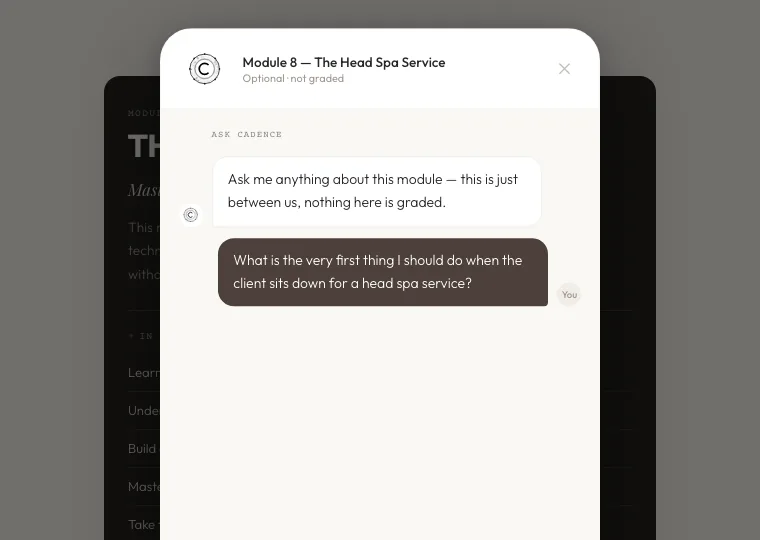
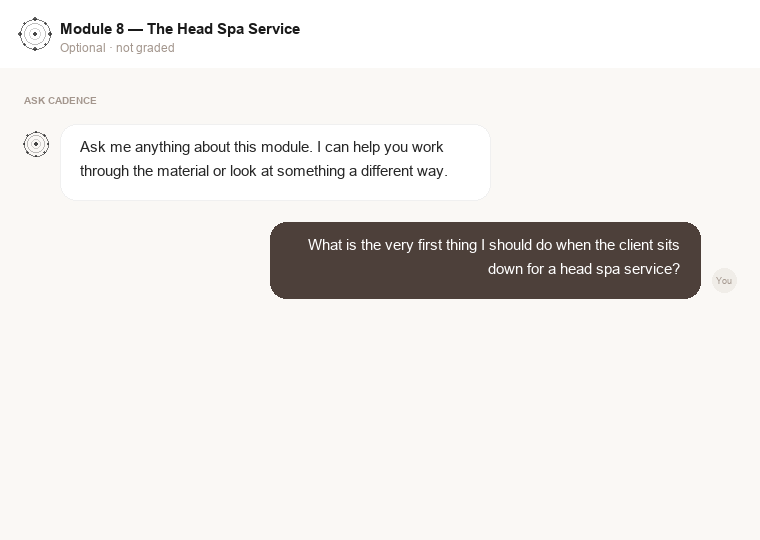
Finish Cadence transition and supporting-page polish
CADENCE CHECK ANIMATION — root cause and fix

Owner QA found the large mark's turn+glow invisible: clicking "Open
Cadence Check" DID activate it (data-cadence-turns incremented, .cc-
entering added, bloom class toggled) but the checkpoint shell still
opened in the exact same synchronous click-event tick. openCheckpoint()
is a synchronous full-screen position:fixed takeover (hidePageChrome()
+ .cshell.open, no yield to the browser) -- so the very first frame
anyone could ever see already showed the shell covering the card. The
animation happened; it just never got painted before being buried.

Fixed by making Cadence's own entry a real, awaited sequence instead of
two independently-firing effects:
- assets/js/cadence-identity.js: activate() now returns a Promise that
  resolves only once the turn+glow has actually played and settled
  (TURN_MS + SETTLE_MS = 2950ms, mirroring aimt-cadence-intro.js's own
  runOrbitalActivation() three-timer structure and its 350ms
  ORBITAL_SETTLE_MS beat -- verified against that frozen file directly,
  not assumed). Reduced-motion still resolves after a short deliberate
  pause (350ms) with no rotation, so the sequence still reads as
  intentional rather than instant.
- assets/js/cadence-shell.js: wireCheckpoint()'s open() closure now
  awaits that Promise, then fades the card (.cc-leaving), then calls
  openCheckpoint() -- only on a later tick, with real paint frames in
  between. A `transitioning` guard blocks re-entry mid-sequence.
[…]

diff --git a/headspa-mastery.html b/headspa-mastery.html
@@ -672,7 +672,14 @@ hr.divider { border: none; border-top: 0.5px solid var(--border); margin: 2.85re
   overflow: hidden;
   box-shadow: 0 20px 44px -18px rgba(0,0,0,0.5), 0 3px 10px rgba(0,0,0,0.25);
   --cc-top-gap: 0.9rem;
+  transition: opacity 0.36s ease;
 }
+/* Final step of the entry sequence (assets/js/cadence-shell.js's
+   wireCheckpoint()): once the large mark's turn+glow has visibly
+   played out, the whole card (mark included) fades away before the
+   checkpoint shell opens underneath it -- CARD_LEAVE_MS there matches
+   this transition's duration. */
+.checkpoint.cc-card.cc-leaving { opacity: 0; pointer-events: none; }
 .checkpoint.cc-card .cc-rail {
   display: flex; align-items: center; justify-content: flex-start;
   padding: 1.6rem 1.65rem 0.15rem; position: relative; z-index: 1;
@@ -695,16 +702,20 @@ hr.divider { border: none; border-top: 0.5px solid var(--border); margin: 2.85re
 }
 
 /* Checkpoint content settles back and softens while Cadence activates --
-   .cc-entering is added/removed by the click-handler script alongside
-   CadenceIdentity.activate(), for the same 2600ms turn duration, so this
-   can never fire out of sync with the mark. */
+   .cc-entering is added/removed by wireCheckpoint()'s open() sequence
+   (assets/js/cadence-shell.js), which awaits CadenceIdentity.activate()
+   itself rather than a duplicated timer, so this can never fire out of
+   sync with the mark. Not clickable while dimmed -- belt-and-suspenders
+   alongside open()'s own `transitioning` guard against a second click
+   restarting the sequence mid-turn. */
 .checkpoint.cc-card > *:not(.cc-rail):not(.cc-divider) {
   transition: opacity 0.5s ease, transform 0.5s ease;
 }
 .checkpoint.cc-card.cc-entering > *:not(.cc-rail):not(.cc-divider) {
-  opacity: 0.55; transform: translateY(5px);
+  opacity: 0.55; transform: translateY(5px); pointer-events: none;
 }
 @media (prefers-reduced-motion: reduce) {
+  .checkpoint.cc-card { transition: none; }
   .checkpoint.cc-card > *:not(.cc-rail):not(.cc-divider) { transition: none; }
 }
 
@@ -9345,24 +9356,15 @@ textarea#gpInput::placeholder { color: var(--muted2); }
 <script src="assets/js/module12-certification.js"></script>
 <script src="assets/js/cadence-identity.js"></script>
 <script src="assets/js/cadence-shell.js" defer></script>
-<!-- Cadence Check entry animation: wires the intro-style turn+glow to the
-     moment a student actually opens a checkpoint, purely as a visual
-     side effect on the card's own .cadence-id mark -- does not touch
-     submitCP/submitCheckpoint or any grading/gating logic below. -->
-<script>
-document.addEventListener('DOMContentLoaded', function () {
-  document.querySelectorAll('.checkpoint.cc-card .cp-btn').forEach(function (btn) {
-    btn.addEventListener('click', function () {
-      var card = btn.closest('.checkpoint.cc-card');
-      if (!card) return;
-      var mark = card.querySelector('.cc-rail .cadence-id');
-      if (window.CadenceIdentity && mark) window.CadenceIdentity.activate(mark);
-      card.classList.add('cc-entering');
-      setTimeout(function () { card.classList.remove('cc-entering'); }, 2600);
-    });
-  });
-});
-</script>
+<!-- Cadence Check entry animation now lives entirely in wireCheckpoint()'s
+     open() closure (assets/js/cadence-shell.js) -- a standalone
+     DOMContentLoaded click listener used to live here too, firing
+     alongside wireCheckpoint()'s own btn.onclick with no coordination
+     between them, which is exactly why the turn+glow never had a chance
+     to visibly play before the shell's synchronous full-screen takeover
+     covered the card: both handlers ran in the same synchronous click
+     dispatch, so the browser never painted a frame in between. Removed;
+     see wireCheckpoint()'s comment for the real sequencing fix. -->
 <script src="https://player.vimeo.com/api/player.js"></script>
 <script>
 // ══════════════════════════════════════════════════════

diff --git a/assets/js/cadence-identity.js b/assets/js/cadence-identity.js
@@ -4,32 +4,55 @@
    Plays the exact one-time turn+glow used by the Cadence intro's own
    runOrbitalActivation() (assets/js/aimt-cadence-intro.js) on any
    .cadence-id element elsewhere on the site (Cadence Checks, the Ask
-   Cadence panel). Same constants (2600ms turn, bloom at 1330ms, one
-   360° step per call), same mechanism (set the CSS `rotate` property,
-   let the .cadence-id-icon transition declared in cadence-identity.css
-   animate it; toggle .is-blooming for the glow). The intro file itself
-   is untouched -- this is a separate, small, additive module.
+   Cadence panel) -- same constants (2600ms turn, bloom at 1330ms,
+   350ms settle after the glow fades before resolving -- runOrbital-
+   Activation()'s own ORBITAL_TURN_MS/BLOOM_DELAY_MS/SETTLE_MS) and the
+   exact same three-setTimeout structure (add bloom / remove bloom /
+   resolve), just against a generic .cadence-id instead of the intro's
+   one hardcoded mark, and turning by (turns * 360) rather than a fixed
+   360 since this one gets activated repeatedly across a session (the
+   intro only ever plays once). The intro file itself is untouched --
+   this is a separate, small, additive module.
+
+   Returns a Promise that resolves once the mark has visibly turned,
+   bloomed, and settled back down -- callers that gate further UI on
+   the activation being SEEN (e.g. cadence-shell.js's wireCheckpoint(),
+   which must not open the checkpoint shell until the large mark's
+   turn+glow has actually played, not just been triggered) must await
+   it rather than opening on their own fixed timer.
 
    Never loops or spins continuously: each call turns once and settles.
-   Respects prefers-reduced-motion -- for those users this is a no-op,
-   the mark stays in its normal resting state (see cadence-identity.css).
+   Respects prefers-reduced-motion: no rotation/glow for those users
+   (mark stays in its normal resting state, matching cadence-
+   identity.css's own reduced-motion block) -- but activate() still
+   resolves after a short deliberate pause rather than instantly, so a
+   caller sequencing "activate -> fade card -> open next view" still
+   reads as one intentional transition, not an instant jump.
    ═══════════════════════════════════════════════════════════════ */
 (function () {
   var TURN_MS = 2600;
   var BLOOM_DELAY_MS = 1330;
+  var SETTLE_MS = 350;
+  var REDUCED_MOTION_PAUSE_MS = 350;
 
   function activate(markEl) {
-    if (!markEl) return;
+    if (!markEl) return Promise.resolve();
     var icon = markEl.querySelector('.cadence-id-icon');
-    if (!icon) return;
-    if (window.matchMedia && window.matchMedia('(prefers-reduced-motion: reduce)').matches) return;
+    if (!icon) return Promise.resolve();
+
+    if (window.matchMedia && window.matchMedia('(prefers-reduced-motion: reduce)').matches) {
+      return new Promise(function (resolve) { setTimeout(resolve, REDUCED_MOTION_PAUSE_MS); });
+    }
 
     var turns = (parseInt(icon.getAttribute('data-cadence-turns'), 10) || 0) + 1;
     icon.setAttribute('data-cadence-turns', String(turns));
     icon.style.rotate = (turns * 360) + 'deg';
 
-    setTimeout(function () { markEl.classList.add('is-blooming'); }, BLOOM_DELAY_MS);
-    setTimeout(function () { markEl.classList.remove('is-blooming'); }, TURN_MS);
+    return new Promise(function (resolve) {
+      setTimeout(function () { markEl.classList.add('is-blooming'); }, BLOOM_DELAY_MS);
+      setTimeout(function () { markEl.classList.remove('is-blooming'); }, TURN_MS);
+      setTimeout(resolve, TURN_MS + SETTLE_MS);
+    });
   }
 
   window.CadenceIdentity = { activate: activate };

diff --git a/assets/js/cadence-shell.js b/assets/js/cadence-shell.js
@@ -539,8 +539,39 @@
     if (container) container.tabIndex = -1;
 
     const label = safeGet(() => container && container.querySelector('.cp-label').textContent.trim(), '');
+    // The large card mark's turn+glow (activate(), below) must fully
+    // play out and the card must visibly fade before the shell opens --
+    // openCheckpoint() itself is a synchronous full-screen takeover
+    // (hidePageChrome() + .cshell.open in the same tick), so calling it
+    // in the same synchronous turn as activate() gave the browser no
+    // paint frame in which to ever show the mark mid-turn: the shell
+    // was already covering it by the first frame anyone could see. This
+    // `open` closure fixes that by making the whole entry a real,
+    // awaited sequence -- activate() now returns a Promise that only
+    // resolves once its visible turn+glow has actually played out
+    // (cadence-identity.js), and only THEN does the card fade out and
+    // openCheckpoint() get called, on a later tick with its own paint
+    // frames in between. `transitioning` blocks re-entry (double-click
+    // / refocus) for the duration of that sequence.
+    const mark = safeGet(() => container && container.querySelector('.cc-rail .cadence-id'), null);
+    let transitioning = false;
+    const CARD_LEAVE_MS = 360; // matches .checkpoint.cc-card's own opacity transition (headspa-mastery.html)
     const open = function () {
-      openCheckpoint({ moduleId, cpId, question: def.question, system: def.system, reviewSystem: def.reviewSystem, label, returnFocusEl: container });
+      if (transitioning) return;
+      if (!mark || !window.CadenceIdentity) {
+        openCheckpoint({ moduleId, cpId, question: def.question, system: def.system, reviewSystem: def.reviewSystem, label, returnFocusEl: container });
+        return;
+      }
+      transitioning = true;
+      container.classList.add('cc-entering');
+      window.CadenceIdentity.activate(mark).then(function () {
+        container.classList.add('cc-leaving');
+        return new Promise(function (resolve) { setTimeout(resolve, CARD_LEAVE_MS); });
+      }).then(function () {
+        container.classList.remove('cc-entering', 'cc-leaving');
+        transitioning = false;
+        openCheckpoint({ moduleId, cpId, question: def.question, system: def.system, reviewSystem: def.reviewSystem, label, returnFocusEl: container });
+      });
     };
 
     input.readOnly = true;

diff --git a/index.html b/index.html
@@ -124,9 +124,16 @@ body {
 .hero-content {
   position: relative;
   z-index: 2;
-  width: min(100%, 36rem);
+  /* Slightly narrower + a fixed (not vw-scaled) right margin: sits
+     further into the badge-left/negative-space-right hero image's
+     right-hand dark region (owner visual review: the block read as too
+     far left, too close to the badge) at normal desktop widths, without
+     the old vw-scaled margin shrinking it back toward the badge at
+     narrower laptop widths (verified 1024-1920px). Was width: min(100%,
+     36rem); margin-right: clamp(2.5rem, 9vw, 9.5rem). */
+  width: min(100%, 33rem);
   margin-left: auto;
-  margin-right: clamp(2.5rem, 9vw, 9.5rem);
+  margin-right: 5rem;
   margin-top: 3rem;
   padding: 0;
   text-shadow: 0 2px 20px rgba(0,0,0,0.28);
@@ -148,7 +155,9 @@ body {
   #hero {
     min-height: 100dvh;
     align-items: flex-end;
-    justify-content: flex-start;
+    /* Centered, matching the top-centered badge's own composition --
+       was flex-start (left-aligned copy). */
+    justify-content: center;
     padding: calc(56px + 1.25rem) 1.1rem 2.3rem;
   }
   .hero-overlay {
@@ -163,15 +172,21 @@ body {
   .hero-image {
     object-position: center 24%;
   }
-  .hero-content { 
-    width: min(100%, 19.5rem);
-    margin: 0 auto 0 0;
-    text-align: left;
+  .hero-content {
+    width: min(100%, 20rem);
+    /* Auto margins on both sides self-center the flex item regardless
+       of the parent's justify-content -- was margin:0 auto 0 0 / left. */
+    margin: 0 auto;
+    text-align: center;
     text-shadow: 0 3px 24px rgba(0,0,0,0.42);
   }
   .hero-tag {
     display: none;
   }
+  /* The badge itself already establishes "American Institute of Modern
+     Trichology" -- the line crowded the composition beneath the
+     top-centered badge on mobile. Desktop keeps it (no override there). */
+  .hero-headline em { display: none; }
   .hero-headline { font-size: clamp(1.7rem, 5vw, 1.9rem); line-height: 0.96; margin-bottom: 0.45rem; }
   .hero-lead { font-size: clamp(1.2rem, 6vw, 1.6rem); }
   .hero-payoff { font-size: clamp(2rem, 11vw, 2.9rem); }
